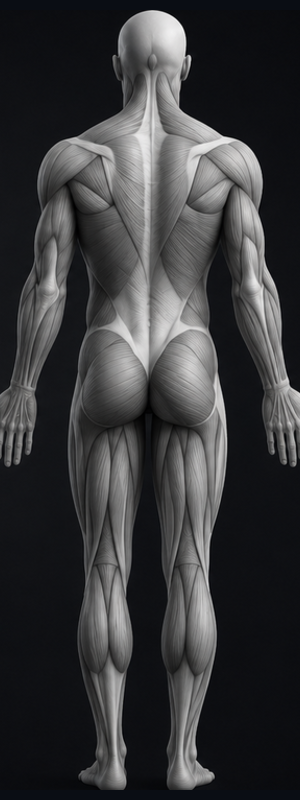
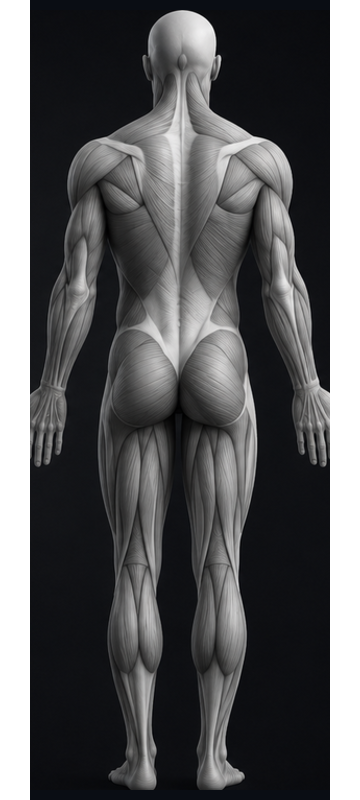
Changes

diff --git a/.lovable/plan.md b/.lovable/plan.md
@@ -1,48 +1,34 @@
-## Objetivo
-Trocar as silhuetas vetoriais atuais (`AnatomyFront`/`AnatomyBack`) pela imagem `fortem_anatomia` enviada, mantendo halos, tooltips, assimetrias e cadeias compensatórias funcionando por cima.
+# Ajuste do Mapa Corporal — mãos cortadas + calibração anatômica
 
-## Premissas
-- A imagem é um PNG embutido em SVG (~1536×1024) mostrando vista **anterior + posterior lado a lado**.
-- Sem paths por músculo → não é possível `clip-path` por contorno anatômico. Halos passam a ser **círculos com gradiente radial** posicionados sobre cada região (volta ao modelo Whoop/Oura, ainda premium).
-- Toda a lógica de `bodyMapLogic.ts`, scores, severidades, modos (Qualidade/Assimetria/Risco) e cadeias **fica intacta**.
+## Diagnóstico
 
-## Passos
+A imagem anatômica atual (`anatomy-front.png` / `anatomy-back.png`) foi trimmed/centralizada em **300×800**, mas o corpo masculino com braços em posição neutra ocupa quase toda a largura — as **mãos ficam encostadas nas bordas laterais** e visualmente parecem cortadas. O `viewBox` do `<svg>` também é 300×800, então não há margem onde respirar.
 
-1. **Extrair e otimizar a imagem**
-   - Decodificar o base64 do SVG enviado → PNG.
-   - Recortar em duas metades (anterior / posterior) e salvar:
-     - `src/assets/bodymap/anatomy-front.png`
-     - `src/assets/bodymap/anatomy-back.png`
-   - Redimensionar para ~600×800 cada, qualidade alta, fundo transparente se possível (senão fundo escuro casando com `--bodymap-surface`).
+O SVG de referência enviado (`fortem_masculino_paths_anatomicos_editaveis.svg`) usa proporção mais larga (~440×900 por vista) justamente para acomodar braços e mãos.
 
-2. **Refatorar `AnatomyFront.tsx` / `AnatomyBack.tsx`**
-   - Substituir todos os `<path>` por um único `<image href={anatomyFront} ... />` ocupando o viewBox.
-   - Remover defs de gradientes corporais (sombreamento já vem da foto).
-   - Manter o mesmo viewBox `0 0 200 540` para não quebrar coordenadas existentes.
+## O que muda
 
-3. **Ajustar `BodyMapSVG.tsx`**
-   - Remover `<clipPath>` que referenciam `#region-*` (não existem mais).
-   - `RegionGlow` passa a renderizar apenas:
-     - halo externo (radialGradient suave)
-     - núcleo brilhante central
-     - anel luminoso fino (`<circle>` com stroke colorido)
-   - Recalibrar `REGION_GEOMETRY` (cx/cy/r) para casar com as posições reais dos músculos na nova imagem — uma rodada de ajuste visual após inserir o asset.
+### 1. Re-processar as imagens base com padding lateral
+- Recortar de novo `anatomy-front.png` e `anatomy-back.png` para **360×800** (mantendo o corpo centralizado), adicionando ~30px de margem em cada lado.
+- Garante que mãos, dedos e cotovelos fiquem inteiros e com folga visual.
 
-4. **Tokens CSS (`src/index.css`)**
-   - Manter `--bodymap-surface` e cores de severidade.
-   - Remover/limpar tokens não usados (`--bodymap-muscle-base`, `--bodymap-line` etc.) ou deixar como fallback.
+### 2. Atualizar `AnatomyFront.tsx` / `AnatomyBack.tsx`
+- Trocar `width="300"` por `width="360"`.
 
-5. **QA**
-   - Validar que halos ficam centrados nos músculos corretos em ambas as vistas.
-   - Tooltips, linhas de assimetria e cadeias compensatórias continuam funcionando.
-   - Conferir contraste no dark mode e que a imagem não estoura o card.
+### 3. Atualizar `BodyMapSVG.tsx`
+- `VIEWBOX = { w: 360, h: 800 }`.
+- Recalibrar `REGION_GEOMETRY` para o novo enquadramento, usando o SVG anatômico de referência como guia de posicionamento dos grupos musculares (ombros, trapézio, peitoral/torácica, lombar, glúteo, quadríceps, isquiotibiais, gastrocnêmio/tornozelo).
+- Os halos continuam sendo o `RegionGlow` atual (gradiente radial + anel luminoso + núcleo) — visual não muda, só posição.
 
-## Arquivos
-**Criados:** `src/assets/bodymap/anatomy-front.png`, `anatomy-back.png`
-**Editados:** `src/components/student/assessment/funcionalV2/anatomy/AnatomyFront.tsx`, `AnatomyBack.tsx`, `src/components/student/assessment/funcionalV2/BodyMapSVG.tsx`, `src/index.css`
+### 4. Container
+- Ajustar `max-w-[300px]` → `max-w-[360px]` no wrapper de cada vista.
 
-## Fora de escopo
-- `bodyMapLogic.ts`, formulário, viewer, PDF, banco de dados.
+## Fora do escopo
 
-## Observação
-Se mais tarde você quiser voltar ao efeito de "preenchimento por contorno do músculo" (clip-path Biomech), precisaremos de um SVG vetorial verdadeiro com `<path>` por região — a imagem raster não permite isso.
+- Não migrar para SVG vetorial com path por músculo (a referência é só guia visual de posição — a visualização final permanece a imagem raster já estabelecida).
+- Não mexer em `bodyMapLogic.ts`, formulário, viewer ou PDF.
+- Cores, severidades, tooltips, cadeias compensatórias e linhas de assimetria permanecem idênticos.
+
+## Resultado esperado
+
+Mãos e braços inteiros, com pequena margem lateral, e halos centralizados corretamente sobre cada grupo muscular real da imagem anatômica.
